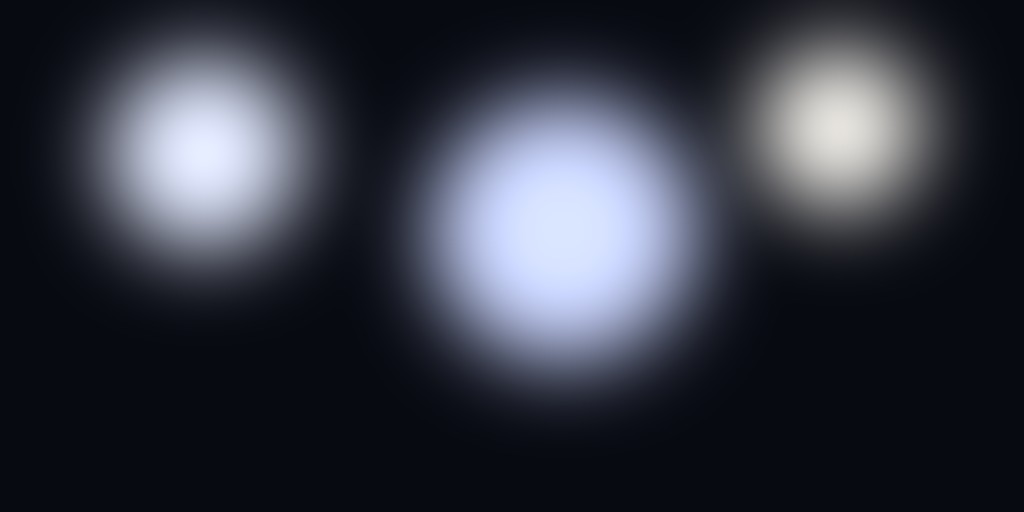
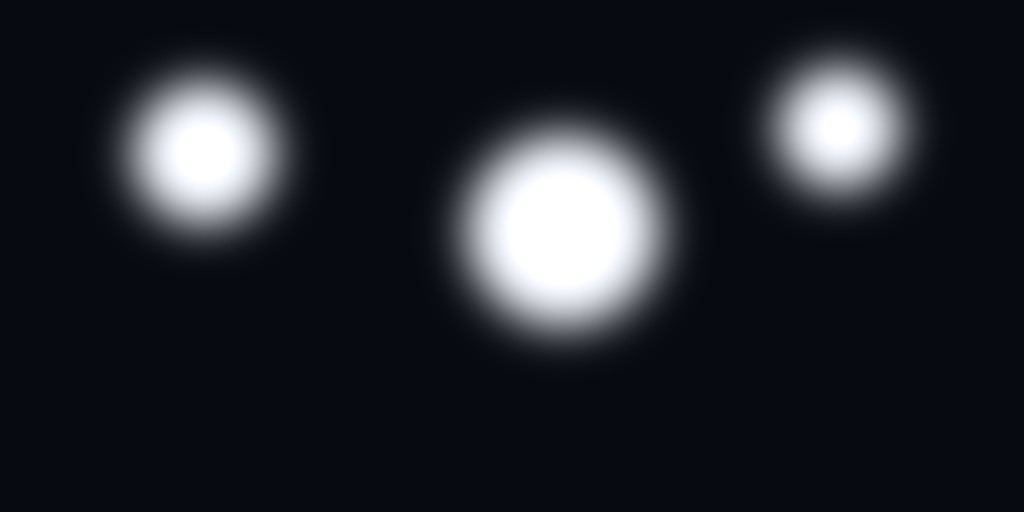
3D iPhone: cam kenar yansıması + ekran specular'ı güçlendirildi
- studio-lights.jpg ışıkları daha keskin/parlak (blur 40->22, peak renk tam beyaz)
- OLED roughness 0.2->0.1, specularFactor 0.5->0.85 — ekranda artık fark edilen
  bir highlight var (önceden emissive'in yanında çok zayıf kalıyordu)
- "Glass" mesh'in alpha'sı 0.25->0.4: bu mesh OLED'den biraz daha geniş bbox'a
  sahip, ekranın hemen kenarında ince bir halka oluşturuyor — gerçek iPhone'daki
  yuvarlatılmış cam kenar hissini veriyor. Birden çok açıda test edildi: ince,
  belirgin ama abartısız bir kenar parlaklığı + ekran üstünde hafif highlight.

diff --git a/index.html b/index.html
@@ -9243,9 +9243,11 @@ if(phone3d){
         // onu hep kapatıyordu — ekrandaki cam yansımasını hep OLED'in KENDİ specular'ı veriyormuş.
         // baseColor=0 olduğu için (diffuse/wash sorunu zaten orada çözüldü) roughness/specular'ı
         // geri açmak kontrastı bozmuyor, sadece belli açılarda ince bir cam yansıması ekliyor.
-        screenMat.pbrMetallicRoughness.setRoughnessFactor(0.2);
+        // roughness daha düşük + specular daha yüksek = daha keskin/görünür highlight
+        // (emissive zaten parlak olduğu için zayıf bir specular ekranda fark edilmiyordu)
+        screenMat.pbrMetallicRoughness.setRoughnessFactor(0.1);
         screenMat.pbrMetallicRoughness.setMetallicFactor(0);
-        if(screenMat.setSpecularFactor)screenMat.setSpecularFactor(0.5);
+        if(screenMat.setSpecularFactor)screenMat.setSpecularFactor(0.85);
         screenMat.emissiveTexture.setTexture(texture);
         screenMat.setEmissiveFactor([1,1,1]);
         // strength 3.2 iken beyaz UI pikselleri HDR'de kırpılıp kontrast/metin tamamen
@@ -9253,6 +9255,13 @@ if(phone3d){
         // 1.2 orta yol: en parlak beyaz pikseller hafif kırpılır (göze çarpmaz) ama genel
         // parlaklık/canlılık belirgin şekilde artar.
         if(screenMat.setEmissiveStrength)screenMat.setEmissiveStrength(1.2);
+      }
+      // "Glass" mesh'i ekranın hemen kenarında (OLED'den biraz daha geniş bbox) duruyor —
+      // bu ince halka gerçek iPhone'daki yuvarlatılmış cam kenar hissini veriyor.
+      // Alpha'sını hafif artırıp bu kenar yansımasını biraz daha belirgin (ama abartısız) yapıyoruz.
+      const glassMat=phone3d.model.materials.find(m=>m.name==='Glass');
+      if(glassMat){
+        glassMat.pbrMetallicRoughness.setBaseColorFactor([0,0,0,0.4]);
       }
     }catch(err){console.warn('Phone screen texture swap failed',err)}
     // texture basılana kadar model-viewer'ın kendi varsayılan duvar kağıdı bir an görünüyordu —